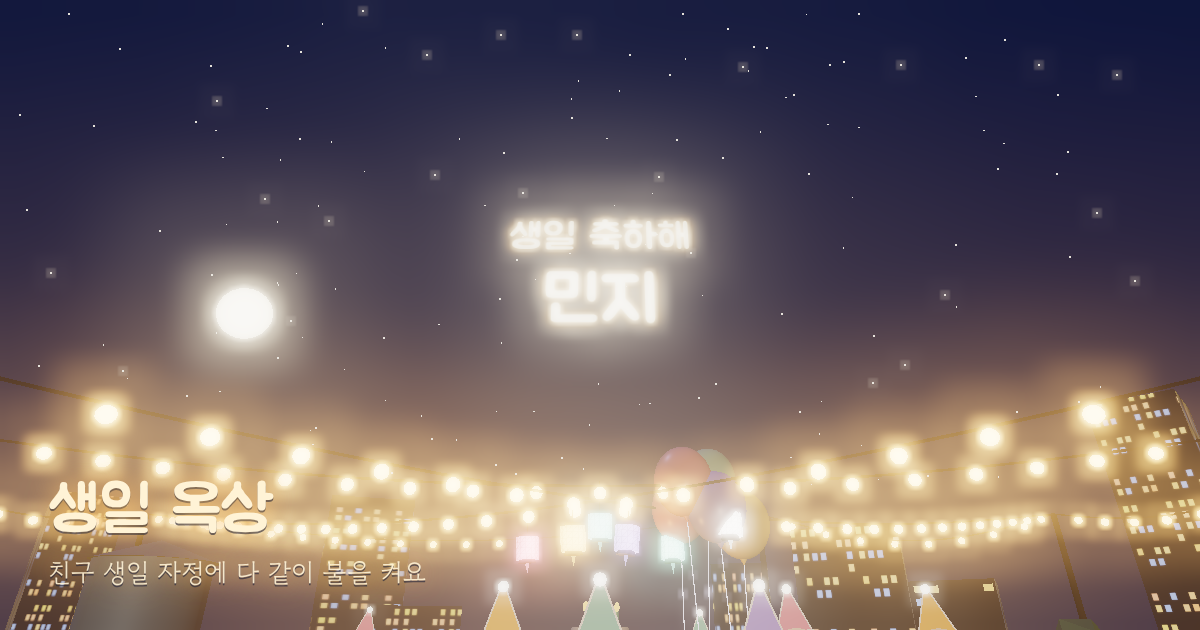
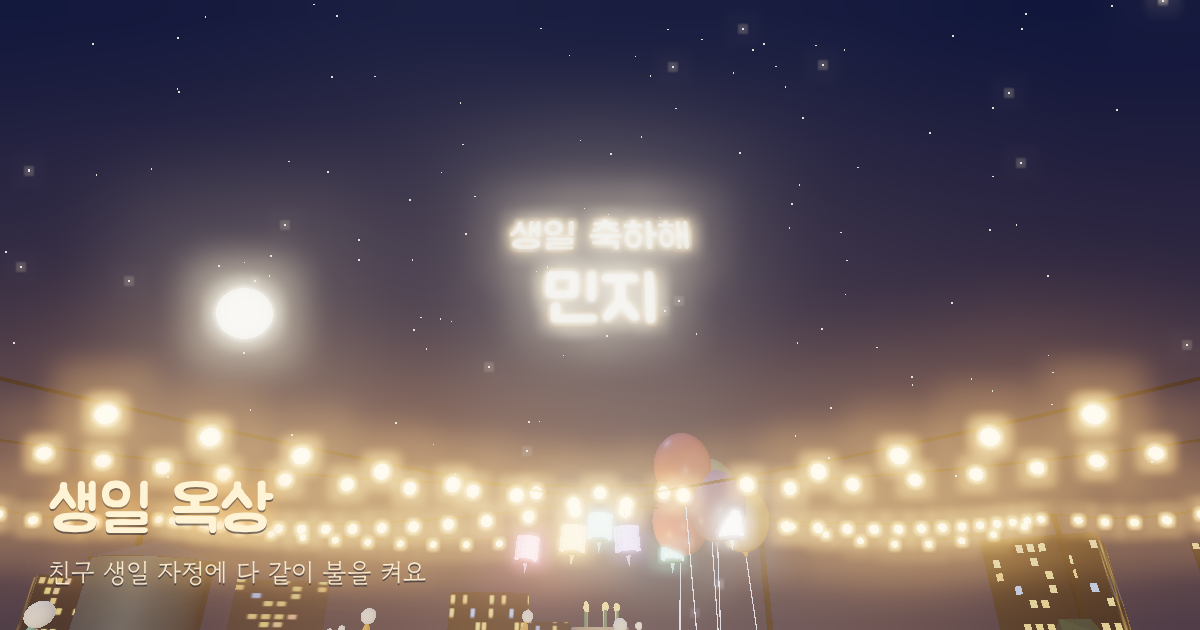
캐릭터를 입체 마시멜로 인형으로 교체, BGM은 소리를 켠 사람만 내려받기
- 통통한 몸통에 작은 팔다리, 걸을 때 젤리처럼 출렁임
- 걷는 방향으로 몸을 돌리고, 멈추면 카메라 쪽을 봄
- 주인공은 보석 왕관, 친구는 파티 모자
- BGM 파일은 소리를 켰을 때만 요청(전송량 절약)
- 미리보기 이미지 새 인형으로 다시 생성

Claude-Session: https://claude.ai/code/session_01WdswETrVR7HoyMaj6TefiQ

diff --git a/src/avatar.js b/src/avatar.js
@@ -1,158 +1,212 @@
 import * as THREE from 'three';
 
-// 종이를 오려 만든 납작한 인형. 앞면은 색종이, 뒤에는 흰 테두리 종이가 한 겹 더 있다.
-const DEPTH = 0.035;
-
-function bodyShape(s = 1) {
-  const sh = new THREE.Shape();
-  sh.moveTo(-0.34 * s, 0);
-  sh.lineTo(0.34 * s, 0);
-  sh.quadraticCurveTo(0.4 * s, 0.05 * s, 0.32 * s, 0.62 * s);
-  sh.quadraticCurveTo(0.26 * s, 0.86 * s, 0, 0.88 * s);
-  sh.quadraticCurveTo(-0.26 * s, 0.86 * s, -0.32 * s, 0.62 * s);
-  sh.quadraticCurveTo(-0.4 * s, 0.05 * s, -0.34 * s, 0);
-  return sh;
-}
-
-function circleShape(r) {
-  const sh = new THREE.Shape();
-  sh.absarc(0, 0, r, 0, Math.PI * 2, false);
-  return sh;
-}
-
-function hatShape(s = 1) {
-  const sh = new THREE.Shape();
-  sh.moveTo(-0.2 * s, 0);
-  sh.lineTo(0.2 * s, 0);
-  sh.lineTo(0.02 * s, 0.46 * s);
-  sh.lineTo(-0.02 * s, 0.46 * s);
-  sh.closePath();
-  return sh;
-}
-
-function flat(shape, color, z = 0) {
-  const m = new THREE.Mesh(
-    new THREE.ExtrudeGeometry(shape, { depth: DEPTH, bevelEnabled: false, curveSegments: 18 }),
-    // 밤에도 종이 색이 묻히지 않도록 자기 색을 살짝 낸다
-    new THREE.MeshStandardMaterial({ color, roughness: 0.92, emissive: color, emissiveIntensity: 0.22 })
-  );
-  m.position.z = z;
-  return m;
-}
-
-const PAPER = 0xfbf4e8;
+// 말랑한 마시멜로 인형: 통통한 몸통 하나에 작은 팔다리. 걸을 때 젤리처럼 출렁인다.
 const INK = 0x2a2238;
+const CHEEK = 0xf2a0a8;
 
-function crownShape(s = 1) {
-  const sh = new THREE.Shape();
-  sh.moveTo(-0.26 * s, 0);
-  sh.lineTo(0.26 * s, 0);
-  sh.lineTo(0.3 * s, 0.26 * s);
-  sh.lineTo(0.15 * s, 0.13 * s);
-  sh.lineTo(0, 0.3 * s);
-  sh.lineTo(-0.15 * s, 0.13 * s);
-  sh.lineTo(-0.3 * s, 0.26 * s);
-  sh.closePath();
-  return sh;
+// 위아래가 둥근 원기둥(마시멜로) 단면
+function marshmallowGeometry(r = 0.44, h = 1.0, round = 0.2) {
+  const pts = [new THREE.Vector2(0, 0)];
+  const seg = 8;
+  for (let i = 0; i <= seg; i++) {
+    const a = -Math.PI / 2 + (i / seg) * (Math.PI / 2);
+    pts.push(new THREE.Vector2(r - round + Math.cos(a) * round, round + Math.sin(a) * round));
+  }
+  for (let i = 0; i <= seg; i++) {
+    const a = (i / seg) * (Math.PI / 2);
+    pts.push(new THREE.Vector2(r - round + Math.cos(a) * round, h - round + Math.sin(a) * round));
+  }
+  pts.push(new THREE.Vector2(0, h));
+  const g = new THREE.LatheGeometry(pts, 28);
+  g.computeVertexNormals();
+  return g;
 }
 
-export function createAvatar({ color = 0xf29bb3, hat = false, hatColor = 0xffc46b, crown = false } = {}) {
+const bodyGeo = marshmallowGeometry();
+const limbGeo = new THREE.CapsuleGeometry(0.075, 0.16, 4, 10);
+const footGeo = new THREE.SphereGeometry(0.12, 14, 10);
+const eyeGeo = new THREE.SphereGeometry(0.045, 12, 10);
+const cheekGeo = new THREE.CircleGeometry(0.06, 16);
+const mouthGeo = new THREE.TorusGeometry(0.05, 0.012, 6, 16, Math.PI);
+const inkMat = new THREE.MeshBasicMaterial({ color: INK });
+const cheekMat = new THREE.MeshBasicMaterial({ color: CHEEK, transparent: true, opacity: 0.8, depthWrite: false });
+
+function soft(color, emissive = 0.16) {
+  return new THREE.MeshStandardMaterial({ color, roughness: 0.62, metalness: 0, emissive: color, emissiveIntensity: emissive });
+}
+// 옷 색을 살짝 밝힌 마시멜로 색
+function pastel(hex, k = 0.28) {
+  return new THREE.Color(hex).lerp(new THREE.Color(0xffffff), k);
+}
+
+function partyHat(color) {
+  const g = new THREE.Group();
+  const cone = new THREE.Mesh(new THREE.ConeGeometry(0.17, 0.42, 20), soft(color, 0.2));
+  cone.position.y = 0.21;
+  const stripe = new THREE.Mesh(new THREE.TorusGeometry(0.115, 0.018, 6, 20), soft(0xfbf4e8, 0.25));
+  stripe.rotation.x = Math.PI / 2;
+  stripe.position.y = 0.14;
+  const pom = new THREE.Mesh(new THREE.SphereGeometry(0.06, 12, 10), soft(0xfbf4e8, 0.3));
+  pom.position.y = 0.44;
+  g.add(cone, stripe, pom);
+  return g;
+}
+
+function crown() {
+  const g = new THREE.Group();
+  const gold = new THREE.MeshStandardMaterial({ color: 0xffd34d, roughness: 0.35, metalness: 0.35, emissive: 0xffb800, emissiveIntensity: 0.25 });
+  const band = new THREE.Mesh(new THREE.CylinderGeometry(0.2, 0.2, 0.1, 24, 1, true), gold);
+  band.material.side = THREE.DoubleSide;
+  band.position.y = 0.05;
+  g.add(band);
+  for (let i = 0; i < 5; i++) {
+    const a = (i / 5) * Math.PI * 2;
+    const spike = new THREE.Mesh(new THREE.ConeGeometry(0.045, 0.13, 8), gold);
+    spike.position.set(Math.sin(a) * 0.19, 0.16, Math.cos(a) * 0.19);
+    const gem = new THREE.Mesh(new THREE.SphereGeometry(0.025, 8, 6), soft(i % 2 ? 0xf29bb3 : 0x8fd3c1, 0.5));
+    gem.position.set(Math.sin(a) * 0.2, 0.05, Math.cos(a) * 0.2);
+    g.add(spike, gem);
+  }
+  return g;
+}
+
+export function createAvatar({ color = 0xf29bb3, hat = false, hatColor = 0xffc46b, crown: wearsCrown = false } = {}) {
   const root = new THREE.Group();
-  const doll = new THREE.Group(); // 카메라를 바라보며 흔들리는 부분
-  root.add(doll);
+  const turn = new THREE.Group(); // 바라보는 방향
+  const jelly = new THREE.Group(); // 출렁임(찌그러짐)
+  root.add(turn);
+  turn.add(jelly);
 
-  // 흰 테두리 종이(뒤)
-  const bodyBack = flat(bodyShape(1.12), PAPER, -0.03);
-  bodyBack.position.set(0, -0.05, -0.03);
-  const headBack = flat(circleShape(0.36), PAPER, -0.03);
-  headBack.position.set(0, 1.12, -0.03);
+  const bodyMat = soft(pastel(color));
+  const body = new THREE.Mesh(bodyGeo, bodyMat);
+  body.position.y = 0.12;
+  jelly.add(body);
 
-  // 색종이(앞)
-  const body = flat(bodyShape(1), color, 0);
-  const head = flat(circleShape(0.31), 0xf6dcc4, 0.005);
-  head.position.set(0, 1.12, 0.005);
-
-  // 얼굴
+  // 얼굴(앞쪽 +z)
   const face = new THREE.Group();
-  const eyeGeo = new THREE.CircleGeometry(0.032, 10);
-  const inkMat = new THREE.MeshBasicMaterial({ color: INK });
   const eL = new THREE.Mesh(eyeGeo, inkMat);
   const eR = new THREE.Mesh(eyeGeo, inkMat);
-  eL.position.set(-0.1, 1.15, DEPTH + 0.012);
-  eR.position.set(0.1, 1.15, DEPTH + 0.012);
-  const blushMat = new THREE.MeshBasicMaterial({ color: 0xf2a0a8, transparent: true, opacity: 0.75 });
-  const bL = new THREE.Mesh(new THREE.CircleGeometry(0.05, 12), blushMat);
-  const bR = bL.clone();
-  bL.position.set(-0.17, 1.06, DEPTH + 0.011);
-  bR.position.set(0.17, 1.06, DEPTH + 0.011);
-  const mouth = new THREE.Mesh(new THREE.RingGeometry(0.035, 0.05, 12, 1, Math.PI * 1.15, Math.PI * 0.7), inkMat);
-  mouth.position.set(0, 1.07, DEPTH + 0.012);
-  face.add(eL, eR, bL, bR, mouth);
+  eL.position.set(-0.13, 0.82, 0.425);
+  eR.position.set(0.13, 0.82, 0.425);
+  eL.scale.set(1, 1.15, 0.5);
+  eR.scale.set(1, 1.15, 0.5);
+  const cL = new THREE.Mesh(cheekGeo, cheekMat);
+  const cR = new THREE.Mesh(cheekGeo, cheekMat);
+  cL.position.set(-0.24, 0.7, 0.405);
+  cR.position.set(0.24, 0.7, 0.405);
+  cL.rotation.y = -0.5;
+  cR.rotation.y = 0.5;
+  const mouth = new THREE.Mesh(mouthGeo, inkMat);
+  mouth.position.set(0, 0.73, 0.44);
+  mouth.rotation.z = Math.PI;
+  face.add(eL, eR, cL, cR, mouth);
+  jelly.add(face);
 
-  // 팔(종이 띠)
-  const armMat = new THREE.MeshStandardMaterial({ color, roughness: 0.92 });
-  const armGeo = new THREE.BoxGeometry(0.1, 0.38, DEPTH);
-  armGeo.translate(0, -0.17, 0);
-  const armL = new THREE.Mesh(armGeo, armMat);
-  const armR = new THREE.Mesh(armGeo, armMat);
-  armL.position.set(-0.36, 0.66, 0.01);
-  armR.position.set(0.36, 0.66, 0.01);
+  // 팔(옷 색)·발
+  const limbMat = soft(color, 0.12);
+  const armL = new THREE.Group();
+  const armR = new THREE.Group();
+  const aL = new THREE.Mesh(limbGeo, bodyMat);
+  const aR = new THREE.Mesh(limbGeo, bodyMat);
+  aL.position.y = -0.12;
+  aR.position.y = -0.12;
+  armL.add(aL);
+  armR.add(aR);
+  armL.position.set(-0.45, 0.62, 0);
+  armR.position.set(0.45, 0.62, 0);
+  armL.rotation.z = -0.35;
+  armR.rotation.z = 0.35;
+  jelly.add(armL, armR);
+  const footL = new THREE.Mesh(footGeo, limbMat);
+  const footR = new THREE.Mesh(footGeo, limbMat);
+  footL.scale.set(1, 0.6, 1.25);
+  footR.scale.set(1, 0.6, 1.25);
+  footL.position.set(-0.17, 0.07, 0.03);
+  footR.position.set(0.17, 0.07, 0.03);
+  turn.add(footL, footR);
 
-  doll.add(bodyBack, headBack, body, head, face, armL, armR);
+  // 배 쪽 옷 색 띠(누가 누군지 구분)
+  const belt = new THREE.Mesh(new THREE.CylinderGeometry(0.447, 0.447, 0.16, 28, 1, true), limbMat);
+  belt.position.y = 0.42;
+  jelly.add(belt);
 
-  if (crown) {
-    const cb = flat(crownShape(1.2), PAPER, -0.02);
-    cb.position.set(0, 1.33, -0.02);
-    const c = flat(crownShape(1), 0xffd34d, 0.004);
-    c.position.set(0, 1.37, 0.004);
-    doll.add(cb, c);
+  if (wearsCrown) {
+    const c = crown();
+    c.position.y = 1.1;
+    jelly.add(c);
   } else if (hat) {
-    const hatBack = flat(hatShape(1.18), PAPER, -0.02);
-    hatBack.position.set(0, 1.36, -0.02);
-    const h = flat(hatShape(1), hatColor, 0.004);
-    h.position.set(0, 1.4, 0.004);
-    const pom = new THREE.Mesh(new THREE.CircleGeometry(0.06, 12), new THREE.MeshBasicMaterial({ color: PAPER }));
-    pom.position.set(0, 1.88, DEPTH + 0.01);
-    doll.add(hatBack, h, pom);
+    const h = partyHat(hatColor);
+    h.position.set(0.08, 1.08, 0);
+    h.rotation.z = -0.22;
+    jelly.add(h);
   }
 
-  // 그림자
   const shadow = new THREE.Mesh(
-    new THREE.CircleGeometry(0.42, 20),
+    new THREE.CircleGeometry(0.5, 24),
     new THREE.MeshBasicMaterial({ color: 0x120e1c, transparent: true, opacity: 0.38, depthWrite: false })
   );
   shadow.rotation.x = -Math.PI / 2;
   shadow.position.y = 0.012;
-  shadow.scale.set(1, 0.7, 1);
   root.add(shadow);
 
-  doll.position.y = 0.02;
-  let walkT = 0;
-  let facing = 1;
+  let walkT = Math.random() * 6;
   let hop = 0;
+  let idle = 0;
+  let heading = 0;
+  const last = new THREE.Vector3();
+  let hasLast = false;
+
+  const angleTo = (from, to) => {
+    let d = to - from;
+    while (d > Math.PI) d -= Math.PI * 2;
+    while (d < -Math.PI) d += Math.PI * 2;
+    return d;
+  };
 
   return {
     root,
-    labelY: 2.15,
+    labelY: 1.72,
     hop() { hop = 1; },
-    update(dt, speed, camera, moveDirX = 0) {
-      // 종이 인형은 항상 카메라 쪽을 바라본다(Y축 빌보드)
-      const camYaw = Math.atan2(camera.position.x - root.position.x, camera.position.z - root.position.z);
-      doll.rotation.y = camYaw;
-      if (Math.abs(moveDirX) > 0.05) facing = moveDirX > 0 ? 1 : -1;
-      doll.scale.x += (facing - doll.scale.x) * Math.min(1, dt * 12);
+    update(dt, speed, camera) {
+      // 실제로 움직인 방향으로 몸을 돌린다. 오래 서 있으면 천천히 카메라 쪽을 본다.
+      const pos = root.position;
+      if (hasLast) {
+        const dx = pos.x - last.x;
+        const dz = pos.z - last.z;
+        if (dx * dx + dz * dz > 1e-6) { heading = Math.atan2(dx, dz); idle = 0; }
+        else idle += dt;
+      }
+      last.copy(pos);
+      hasLast = true;
+      let target = heading;
+      if (idle > 1.2) target = Math.atan2(camera.position.x - pos.x, camera.position.z - pos.z);
+      turn.rotation.y += angleTo(turn.rotation.y, target) * Math.min(1, dt * (idle > 1.2 ? 2.5 : 10));
 
       const moving = speed > 0.05;
-      walkT += dt * (moving ? 11 : 2);
-      const bounce = moving ? Math.abs(Math.sin(walkT)) * 0.14 : Math.sin(walkT) * 0.012;
+      walkT += dt * (moving ? 12 : 2.2);
       if (hop > 0) hop = Math.max(0, hop - dt * 1.6);
-      const hopY = Math.sin(hop * Math.PI) * 0.7;
-      doll.position.y = 0.02 + bounce + hopY;
-      doll.rotation.z = moving ? Math.sin(walkT) * 0.09 : 0;
-      armL.rotation.z = moving ? Math.sin(walkT) * 0.5 : 0.08 + (hop > 0 ? 2.4 * Math.sin(hop * Math.PI) : 0);
-      armR.rotation.z = moving ? -Math.sin(walkT) * 0.5 : -0.08 - (hop > 0 ? 2.4 * Math.sin(hop * Math.PI) : 0);
-      shadow.scale.setScalar(1 - (bounce + hopY) * 0.5);
-      shadow.scale.y *= 0.7;
+      const hopK = Math.sin(hop * Math.PI);
+
+      // 젤리 출렁임: 위아래로 늘었다 줄면 옆으로는 반대로
+      const squish = moving ? Math.sin(walkT * 2) * 0.07 : Math.sin(walkT) * 0.025;
+      const land = hop > 0 && hop < 0.25 ? (0.25 - hop) * 0.8 : 0;
+      const sy = 1 + squish + hopK * 0.12 - land;
+      jelly.scale.set(1 / Math.sqrt(sy), sy, 1 / Math.sqrt(sy));
+      jelly.position.y = (moving ? Math.abs(Math.sin(walkT)) * 0.08 : 0) + hopK * 0.75;
+      jelly.rotation.z = moving ? Math.sin(walkT) * 0.06 : 0;
+
+      // 팔과 발
+      const swing = moving ? Math.sin(walkT) * 0.6 : 0;
+      armL.rotation.x = swing;
+      armR.rotation.x = -swing;
+      armL.rotation.z = -0.35 - hopK * 1.9;
+      armR.rotation.z = 0.35 + hopK * 1.9;
+      footL.position.z = 0.03 + (moving ? Math.sin(walkT) * 0.12 : 0);
+      footR.position.z = 0.03 - (moving ? Math.sin(walkT) * 0.12 : 0);
+      footL.position.y = 0.07 + (moving ? Math.max(0, Math.sin(walkT)) * 0.06 : 0);
+      footR.position.y = 0.07 + (moving ? Math.max(0, -Math.sin(walkT)) * 0.06 : 0);
+
+      shadow.scale.setScalar(1 - jelly.position.y * 0.4);
     },
   };
 }

diff --git a/src/audio.js b/src/audio.js
@@ -71,6 +71,8 @@ function player(name) {
   a.addEventListener('error', () => { a.dataset.missing = '1'; });
   a.addEventListener('ended', () => { if (wanted === name && after) { const next = after; after = null; sound.music(next); } });
   players[name] = a;
+  // 녹화 중이면 새 곡도 녹화 소리에 연결
+  if (sound._dest) { try { ctx.createMediaElementSource(a).connect(master); } catch { /* 이미 연결됨 */ } }
   return a;
 }
 
@@ -114,9 +116,9 @@ export const sound = {
   music(name, thenTrack = null) {
     wanted = name;
     after = thenTrack;
-    if (name && !TRACKS[name].loop) {
-      const a = player(name);
-      try { a.currentTime = 0; } catch { /* 아직 불러오는 중 */ }
+    // 소리를 켠 사람만 곡 파일을 받는다(전송량 절약). 한 번만 트는 곡은 처음부터.
+    if (name && !TRACKS[name].loop && players[name]) {
+      try { players[name].currentTime = 0; } catch { /* 아직 불러오는 중 */ }
     }
     applyMusic();
   },
@@ -126,8 +128,8 @@ export const sound = {
     if (!sound._dest) {
       sound._dest = ctx.createMediaStreamDestination();
       master.connect(sound._dest);
-      for (const name of Object.keys(TRACKS)) {
-        try { ctx.createMediaElementSource(player(name)).connect(master); } catch { /* 이미 연결됨 */ }
+      for (const a of Object.values(players)) {
+        try { ctx.createMediaElementSource(a).connect(master); } catch { /* 이미 연결됨 */ }
       }
     }
     return sound._dest.stream;

diff --git a/README.md b/README.md
@@ -47,6 +47,6 @@ ADMIN_KEY=비밀키 npm start  # http://localhost:8787
 - `server/index.js` — HTTP·WebSocket 서버, SQLite 저장, 미리보기·운영자 화면
 - `src/config.js` — 서버와 화면이 같이 쓰는 설정(문구, 한도, 보관 기간)
 - `src/main.js` — 화면(모드: 첫 화면 / 샘플 / 실제 옥상)
-- `src/world.js` · `src/avatar.js` — 옥상과 종이 인형(모두 코드로 그림, 3D 모델 파일 없음)
+- `src/world.js` · `src/avatar.js` — 옥상과 마시멜로 인형(모두 코드로 그림, 3D 모델 파일 없음)
 - `src/audio.js` · `src/recorder.js` · `src/net.js` — 소리, 영상·캘린더, 통신
 - `public/` — 개인정보처리방침, 이용약관, 미리보기 이미지, BGM
